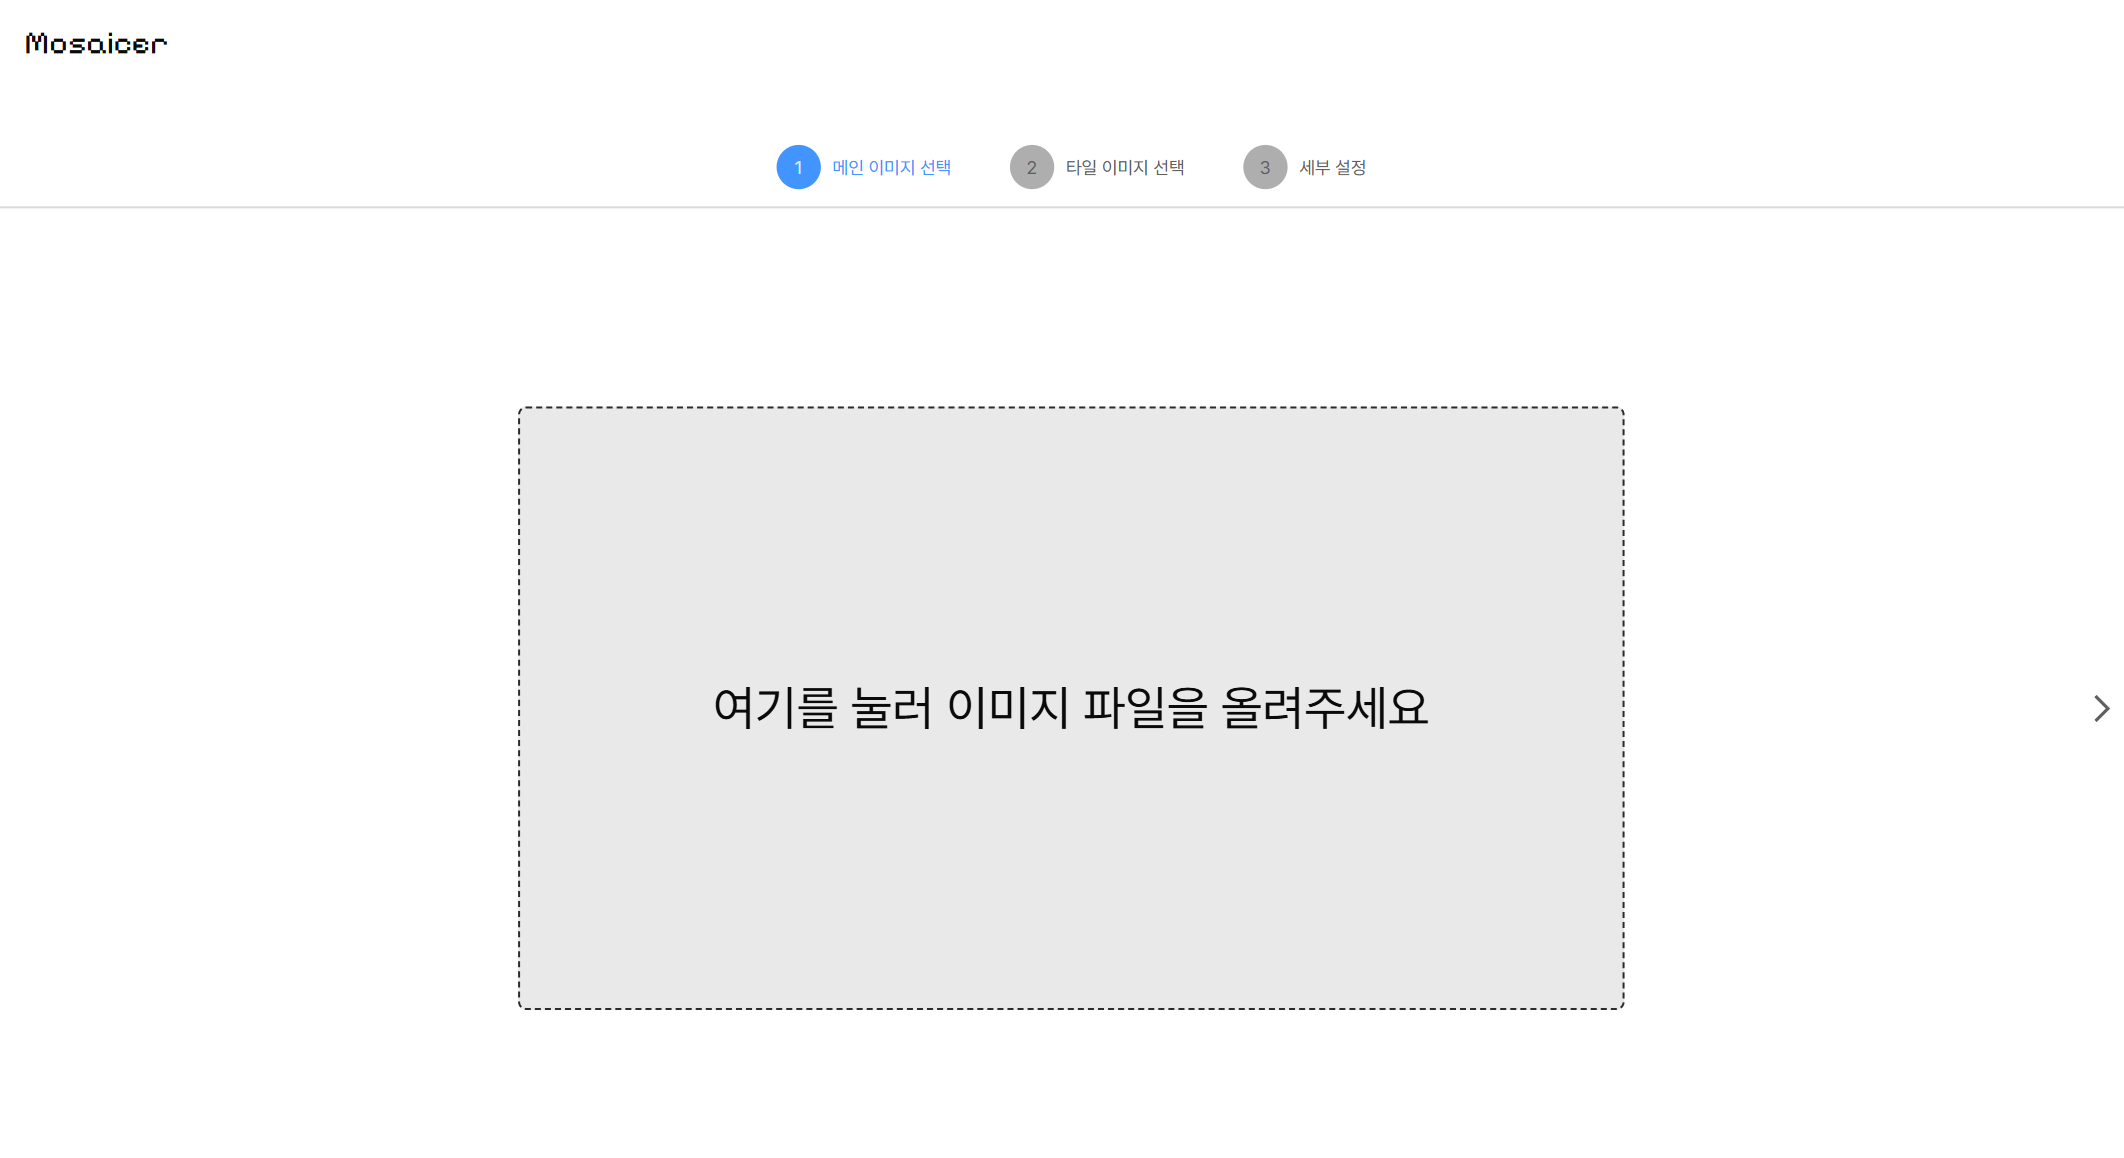
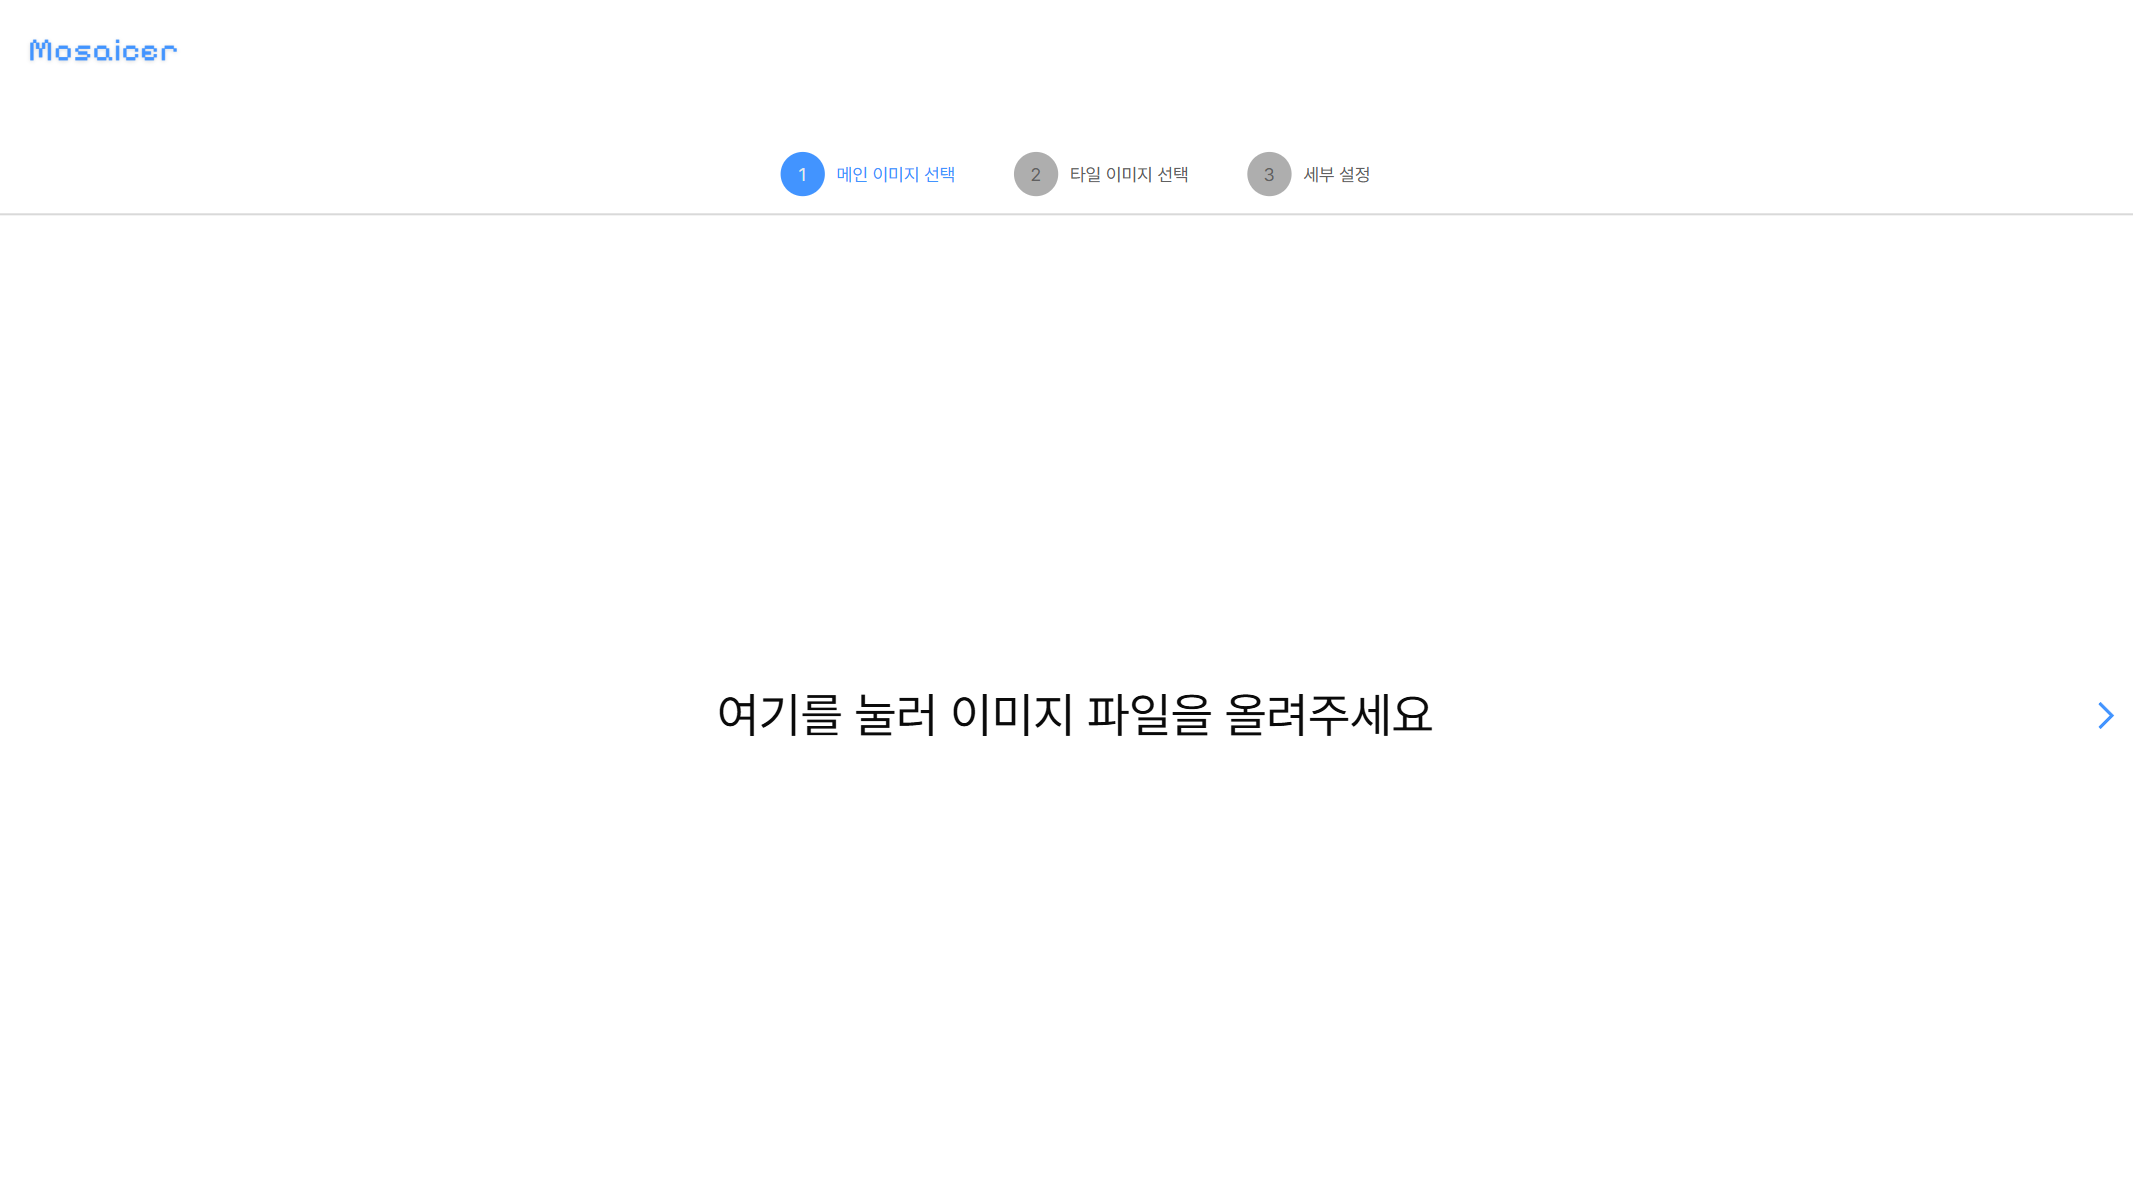
refactor: change usage images and design

diff --git a/src/pages/make/steps/SecondStep.tsx b/src/pages/make/steps/SecondStep.tsx
@@ -77,7 +77,7 @@ const SecondStep = () => {
     <div className="flex flex-col items-center justify-center gap-10">
       <div
         className={cn(
-          'bg-weak border-strong flex h-80 w-75 rounded-md border-2 border-dashed p-2 hover:cursor-pointer md:h-75 md:w-145 xl:h-125 xl:w-271',
+          'border-strong flex h-80 w-75 bg-transparent hover:cursor-pointer md:h-75 md:w-145 xl:h-125 xl:w-271',
           urls.length === 0
             ? 'items-center justify-center'
             : 'flex-wrap content-start justify-start gap-0 overflow-auto',
@@ -100,7 +100,7 @@ const SecondStep = () => {
               key={url}
               src={url}
               className={cn(
-                'h-14 w-14 object-cover',
+                'h-15 w-15 object-cover',
                 selectUrls.includes(idx) && 'border-danger border-2',
               )}
               onClick={(e: MouseEvent) => handleImgClick(e, idx)}

diff --git a/src/pages/result/Result.tsx b/src/pages/result/Result.tsx
@@ -130,7 +130,7 @@ const ShowImage = ({ result, terminate }: ShowImageProps) => {
   return (
     <div className="flex items-center justify-center">
       <div className="flex h-200 w-full flex-col items-center gap-4">
-        <div className="bg-weak border-strong flex h-75 w-75 items-center justify-center md:h-130 md:w-255">
+        <div className="flex h-75 w-75 items-center justify-center bg-transparent md:h-130 md:w-255">
           {src ? (
             <img src={src} className="h-full w-full object-cover" />
           ) : (

diff --git a/src/pages/make/steps/FirstStep.tsx b/src/pages/make/steps/FirstStep.tsx
@@ -50,7 +50,7 @@ const FirstStep = () => {
 
   return (
     <div
-      className="bg-weak border-strong flex h-75 w-75 items-center justify-center rounded-md border-2 border-dashed hover:cursor-pointer md:h-150 md:w-275"
+      className="border-strong flex h-75 w-75 items-center justify-center bg-transparent hover:cursor-pointer md:h-150 md:w-275"
       onClick={handleClick}
       onDragOver={(e) => e.preventDefault()}
       onDrop={handleDrop}

diff --git a/src/pages/make/components/Arrow.tsx b/src/pages/make/components/Arrow.tsx
@@ -17,10 +17,7 @@ const Arrow = ({ direction, className, onClick }: ArrowProps) => {
         className,
       )}
     >
-      <span
-        className="text-disabled hover:text-primary hover:cursor-pointer"
-        onClick={onClick}
-      >
+      <span className="text-primary hover:cursor-pointer" onClick={onClick}>
         {direction === 'right' ? <Next width="16" /> : <Prev width="16" />}
       </span>
     </div>
